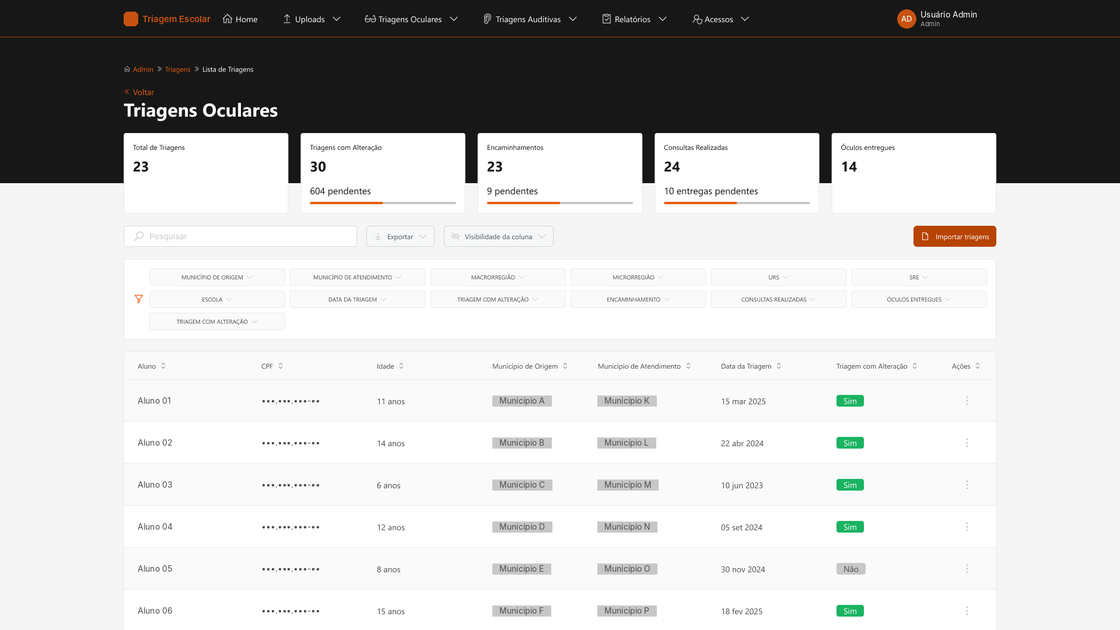
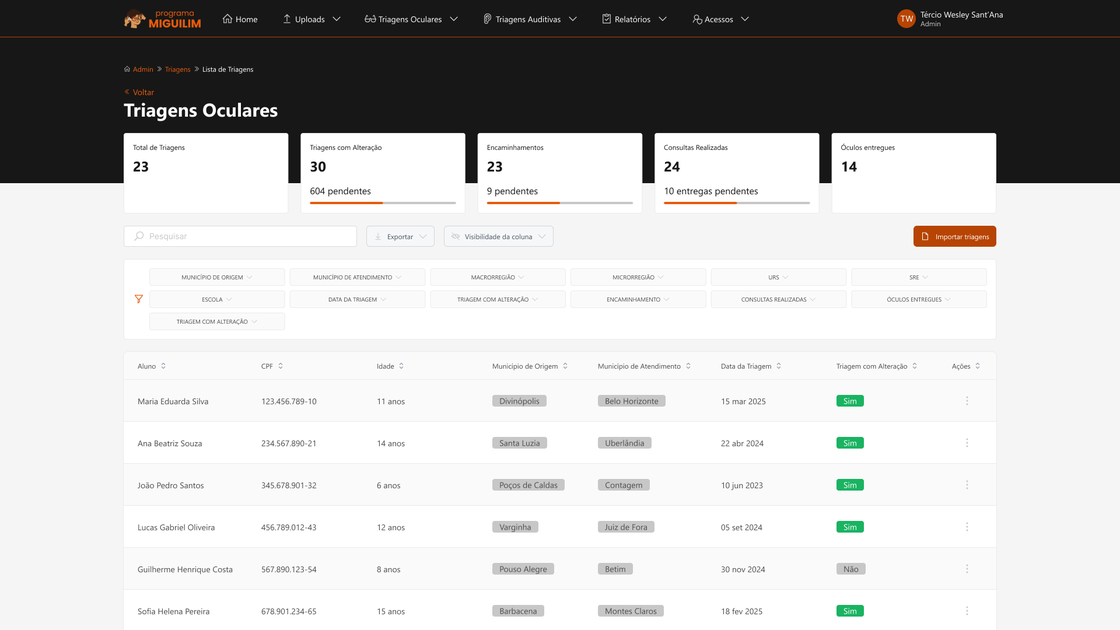
Miguilim: original screen; smaller tiles (4 in a row, 5 = 3 + 2 centered)
Claude-Session: https://claude.ai/code/session_01NqxkirXia5g9S1i4qeMECe

diff --git a/index.html b/index.html
@@ -106,13 +106,12 @@ section { scroll-margin-top: 80px; }
 .sec__head p { color: var(--muted); font-size: 18px; max-width: 36em; }
 
 /* Work */
-.work { display: grid; grid-template-columns: repeat(6, minmax(0, 1fr)); gap: 24px; }
-/* Tiles fill every row evenly: 4 = 2+2, 5 = 2+3, 3 or 6 = 3 per row */
+.work { display: grid; grid-template-columns: repeat(12, minmax(0, 1fr)); gap: 24px; }
+/* Small tiles, rows always symmetric: 3 or 6 = 3 per row, 4 = one row of 4, 5 = 3 + 2 centered */
 @media (min-width: 961px) {
-  .work > .tile { grid-column: span 3; }
-  .work:has(> .tile:nth-of-type(5)) > .tile:nth-of-type(n+3),
-  .work:has(> .tile:nth-of-type(3)):not(:has(> .tile:nth-of-type(4))) > .tile,
-  .work:has(> .tile:nth-of-type(6)) > .tile { grid-column: span 2; }
+  .work > .tile { grid-column: span 4; }
+  .work:has(> .tile:nth-of-type(4)):not(:has(> .tile:nth-of-type(5))) > .tile { grid-column: span 3; }
+  .work:has(> .tile:nth-of-type(5)):not(:has(> .tile:nth-of-type(6))) > .tile:nth-of-type(4) { grid-column: 3 / span 4; }
 }
 .feat { grid-column: 1 / -1; display: grid; grid-template-columns: 6fr 5fr; background: transparent; isolation: isolate; color: var(--on-ink); border-radius: var(--radius); overflow: hidden; text-decoration: none; }
 .feat__img { background: var(--surface); overflow: hidden; padding: 36px 36px 0; display: flex; align-items: flex-end; min-height: 100%; }
@@ -596,7 +595,7 @@ html.no-ux { --display: "Times New Roman", Times, serif; --body: Arial, Helvetic
         </div>
         </article>
         <article class="tile">
-          <div class="tile__img"><img src="assets/img/gallery-miguilim.png" width="560" height="315" alt="Miguilim: school eye screenings list with funnel cards and filters"></div>
+          <div class="tile__img"><img src="assets/img/gallery-miguilim.png" width="560" height="315" alt="Miguilim: school eye screenings list with progress cards and filters"></div>
           <div class="tile__body">
           <div class="row"><h3>Miguilim</h3><span class="soon">SES-MG</span></div>
           <p>Screens school children for vision and hearing problems and follows each case from referral to glasses delivery.</p>
